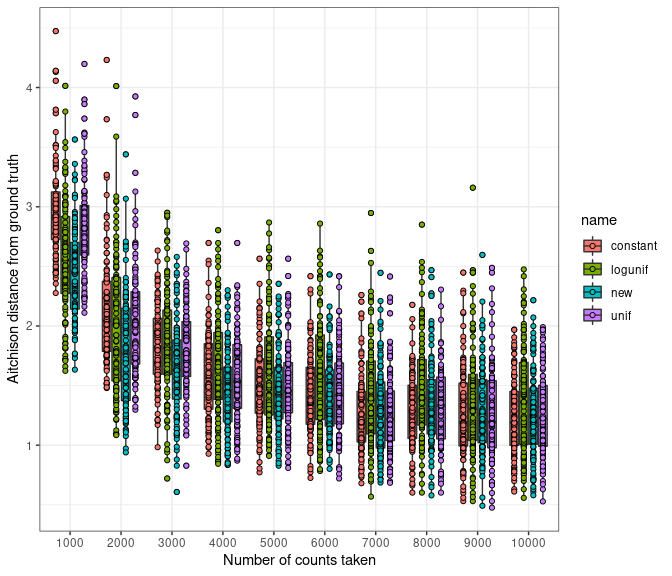
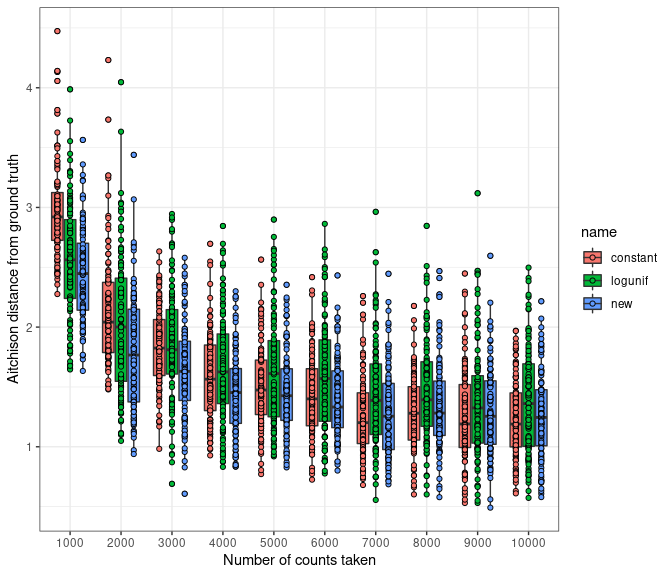
update

diff --git a/README.md b/README.md
@@ -37,7 +37,7 @@ knitr::kable(t(data.frame("observed" =
 
 |              |      mean |        sd |
 |:-------------|----------:|----------:|
-| observed     | -8.646037 | 0.0855284 |
+| observed     | -8.645020 | 0.0862882 |
 | approximated | -8.645706 | 0.0859221 |
 
 ``` r
@@ -415,13 +415,13 @@ df_c <- (res_fib %>% cbind("real" = fib)) %>%
   as.matrix %>%
   data.frame() 
 
-df_unif <- (res_fib %>% cbind("real" = fib)) %>%
-  data.frame() %>%
-  Tjazi::clr_unif() %>%
-  t() %>%
-  dist(., diag = T, upper = T, method = "euclidean")  %>%
-  as.matrix %>%
-  data.frame() 
+# df_unif <- (res_fib %>% cbind("real" = fib)) %>%
+#   data.frame() %>%
+#   Tjazi::clr_unif() %>%
+#   t() %>%
+#   dist(., diag = T, upper = T, method = "euclidean")  %>%
+#   as.matrix %>%
+#   data.frame() 
 
 df_logunif <- (res_fib %>% cbind("real" = fib)) %>%
   data.frame() %>%
@@ -435,7 +435,7 @@ df_logunif <- (res_fib %>% cbind("real" = fib)) %>%
 plot_df = data.frame(constant = df_c[,"real"], 
                      new      = df_new[,"real"],
                      #shrunk   = df_shr[,"real"], 
-                     unif      = df_unif[,"real"], 
+                     #unif      = df_unif[,"real"], 
                      logunif   = df_logunif[,"real"], 
                      
                      sample   = c(rep(seq(1000,10000, by = 1000), each = 100),"NA"))
